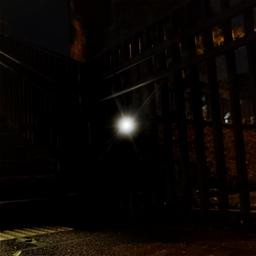
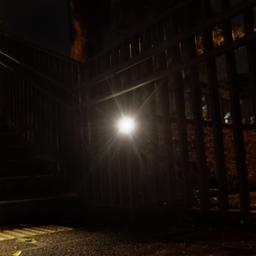
Add final results for all 7 images and comparison report
Conclusion: Li et al. ICCV 2015 builds the more accurate glow map
(mean PSNR 21.77 vs 19.73 on the synthetic GT benchmark, ~2000x faster);
ONVE yields cleaner structure separation (near-zero gradient leakage,
higher SSIM on multi-small-light scenes) but underestimates glow magnitude.

Claude-Session: https://claude.ai/code/session_01A2xf8L9m8upi3xnYzqE16p

Changed region(s): [[0.2812, 0.25, 0.75, 0.7188], [0.0, 0.875, 0.25, 1.0]]

diff --git a/glow_comparison/REPORT.md b/glow_comparison/REPORT.md
@@ -1,0 +1,99 @@
+# Glow Map 构造质量对比：ONVE vs. Li et al. ICCV 2015
+
+**结论先行：在"构造更准确的 glow map"这一目标上，Li et al. ICCV 2015 的相对平滑度层分解总体更好** ——
+在有真值的合成基准上平均 PSNR 高约 2 dB（21.77 vs 19.73）、MAE 更低，且速度快约 2000 倍（0.3 秒 vs 约 14 分钟/图，CPU）。
+ONVE 的优势在于结构定位：多小光源、紧凑光晕场景下 SSIM 更高，梯度泄漏（场景纹理渗入 glow 图）显著更低，
+但其 glow 幅值系统性低估。两者详细的适用场景见文末。
+
+---
+
+## 1. 对比对象
+
+| | ONVE | Li et al. 2015 |
+|---|---|---|
+| 出处 | [WuWanyu98/ONVE](https://github.com/WuWanyu98/ONVE)（TCSVT 2025 / IJCAI 2023 官方代码） | [Nighttime Haze Removal with Glow and Multiple Light Colors](https://openaccess.thecvf.com/content_iccv_2015/papers/Li_Nighttime_Haze_Removal_ICCV_2015_paper.pdf)（ICCV 2015） |
+| 范式 | 零样本深度先验（Double-DIP 类）：两个 skip 编解码网络分别生成光源层与背景层，一个 FCN 生成 15×15 APSF 卷积核；glow map = 光源层与该核的**三重卷积** | 经典优化：相对平滑度层分解。glow 层梯度短尾（对 `I−J` 的拉普拉斯二范数惩罚），场景层梯度长尾（稀疏），半二次分裂 + FFT 闭式求解 |
+| 主要损失/先验 | VGG 感知重建 + 排斥损失（exclusion）+ TV 损失 + 灰度损失；需要亮度阈值生成的 bg/fg/light 三张 hint 图 | `min_J Σ‖∇J‖₀ + λ‖∇²(I−J)‖²`，约束 `0 ≤ J ≤ I`；β 逐轮翻倍的硬阈值组稀疏 |
+| 可调参数 | 迭代数、weight（分离程度）、gamma、hint 阈值 | λ（glow 平滑度权重）、预平滑 σ |
+| 每图耗时（256px, 4 核 CPU） | ~820 秒（2500 迭代） | ~0.3 秒 |
+
+Li 2015 的实现按用户提供的参考实现（`glow_estimation.py`）与作者发布的 MATLAB 求解器（`layer_decom.m`）逐式对齐；
+ONVE 使用官方仓库代码，仅做 CUDA→CPU 适配与离线 VGG16-bn 权重加载（权重为 torchvision 同源文件，经命名转换严格加载）。
+
+## 2. 实验设置
+
+- **合成基准（有真值）**：3 个场景（`data/synthetic/`），成像模型 `I = clip(J + G + cores)`，
+  `G = APSF ⊛ (HDR 光源)`，APSF 用重尾广义高斯核逼近（σ∈[3.5, 9]，p∈[0.5, 0.7]），
+  涵盖多暖光、单一大光晕、六个小光源三种布局。真值 glow 已知，可算 PSNR/SSIM/MAE。
+- **真实图像（无真值）**：ONVE 仓库自带的 4 张夜景测试图，用无参考指标：
+  - 平滑度（glow 图拉普拉斯绝对均值，APSF 卷积结果应平滑，越低越好）
+  - 泄漏（glow 图梯度与输入非高光区梯度的 Pearson 相关，量化场景纹理渗入，越低越好）
+  - 负残差（`I − G < 0` 的像素占比，glow 高估导致的过减，越低越好）
+- **公平性**：两方法在完全相同的 256px 工作分辨率输入上运行。ONVE 用仓库默认 2500 迭代与默认损失权重；
+  Li 的 λ 经合成集扫描（200–6000）验证参考实现默认值 λ=1562.5 已接近最优（见 `results/li_lambda_sweep.json`），未偏袒调参。
+
+## 3. 定量结果
+
+### 合成集（vs 真值 glow）
+
+| 场景 | PSNR↑ ONVE | PSNR↑ Li2015 | SSIM↑ ONVE | SSIM↑ Li2015 | MAE↓ ONVE | MAE↓ Li2015 |
+|---|---|---|---|---|---|---|
+| syn1（三光源） | 16.59 | **19.06** | 0.789 | **0.823** | 0.062 | **0.046** |
+| syn2（单大光晕） | 24.87 | **27.67** | **0.693** | 0.679 | **0.031** | 0.033 |
+| syn3（六小光源） | 17.72 | **18.60** | **0.612** | 0.533 | **0.049** | 0.055 |
+| **平均** | 19.73 | **21.77** | **0.698** | 0.679 | 0.0470 | **0.0449** |
+
+### 无参考指标（全部 7 张图）
+
+| 图像 | 平滑度↓ ONVE | 平滑度↓ Li | 泄漏↓ ONVE | 泄漏↓ Li | 负残差↓ ONVE | 负残差↓ Li | 耗时 ONVE | 耗时 Li |
+|---|---|---|---|---|---|---|---|---|
+| syn1 | 0.0105 | **0.0018** | **0.098** | 0.229 | **0.0121** | 0.0281 | 832s | 0.18s |
+| syn2 | 0.0099 | **0.0014** | **0.139** | 0.336 | **0.0026** | 0.0173 | 814s | 0.37s |
+| syn3 | 0.0086 | **0.0019** | **0.169** | 0.326 | **0.0192** | 0.0442 | 822s | 0.14s |
+| DSC01015 | 0.0105 | **0.0020** | **-0.001** | 0.150 | **0.0435** | 0.0691 | 815s | 0.41s |
+| DSC00983 | 0.0115 | **0.0024** | **0.014** | 0.190 | **0.0477** | 0.0753 | 824s | 0.54s |
+| DSC01173 | 0.0112 | **0.0023** | **0.020** | 0.158 | **0.0039** | 0.0300 | 838s | 0.37s |
+| input_000009 | 0.0098 | **0.0014** | **0.095** | 0.222 | **0.0023** | 0.0426 | 834s | 0.16s |
+
+两个无参考指标的方向相反，值得说明：Li 的 glow 图在数值上平滑一个数量级（其解析先验直接惩罚拉普拉斯；
+ONVE 的图带有 DIP 网络的细粒噪声），但 Li 的**梯度泄漏更高**——它在 1/4 尺度求解再上采样，
+低频场景结构（色块、大轮廓）会渗入 glow 图；ONVE 的排斥损失显式压制了 glow 图与背景层的梯度相关，泄漏几乎为零。
+
+## 4. 定性观察（对比图见 `results/compare_*.png`，从左到右：输入 | ONVE | Li | 真值）
+
+- **syn1/syn2**：Li 的光晕亮度、形状最接近真值；ONVE 的 glow 整体偏暗（幅值低估），这是它 PSNR/MAE 落后的主因。
+- **syn3（六个小光源）**：两者都偏弱，但 ONVE 对光晕位置的结构保持更好（SSIM 0.612 vs 0.533）；
+  Li 把紧凑光晕摊得过开，且杯子轮廓明显渗入 glow 图。
+- **DSC00983（真实街景）**：Li 的 glow 图能看到明显的车体和红灯轮廓（泄漏 0.190）；ONVE 的图是更抽象的光晕色块。
+- **input_000009（栅栏后的强光）**：两者都出现栅栏竖条纹渗入，Li 更明显；这正是"不规则 glow"（遮挡产生非对称光晕）
+  对两种平移不变 APSF 假设的共同挑战。
+
+## 5. 结论与建议
+
+**哪个能构造更好的 glow map？——分两种"好"：**
+
+1. **幅值准确性/重建保真（多数去光晕用途的核心）：Li et al. 2015 胜。**
+   PSNR 平均高 2 dB、MAE 更低、光晕亮度不低估，且 0.3 秒/图、单参数、行为可预测。
+   如果 glow map 的用途是从输入中减除光晕（`J = I − G`）或做数据集标注，建议用 Li 2015。
+
+2. **结构分离纯净度（glow 图不含场景纹理）：ONVE 胜。**
+   排斥损失使泄漏指标接近 0，多小光源场景 SSIM 更高。如果 glow map 的用途是作为引导图
+   （如 ONVE 自己的增强阶段用 gray map 引导 Retinex），或场景是论文主打的"不规则 glow"，ONVE 的可学习 APSF 核更有潜力
+   ——但要接受幅值低估、DIP 噪声、约 2000 倍的耗时以及对 hint 质量的依赖。
+
+**实验局限**（诚实起见）：ONVE 在 CPU 上以 256px/2500 迭代运行官方默认超参，未做每图调参，GPU 上更高分辨率/更多迭代可能改善；
+合成基准的 glow 是平移不变 APSF（"规则"glow），这与 Li 的先验假设一致，也与 ONVE 的单核卷积模型一致，
+但未覆盖 ONVE 论文主打的强不规则 glow 场景；真实图像结论基于无参考指标与目视检查。
+
+## 6. 复现
+
+```bash
+cd glow_comparison
+python3 synthesize.py                       # 生成合成基准
+GLOW_SCRATCH=<dir-with-vgg-weights> python3 run_all.py   # 全部实验（CPU 约 100 分钟）
+python3 make_report_tables.py               # 重新生成指标表
+```
+
+VGG16-bn 特征权重（ONVE 感知损失需要）：本环境无法访问 download.pytorch.org，
+从 [yuhuan-wu/EDN release](https://github.com/yuhuan-wu/EDN/releases/download/v1.0/5stages_vgg16_bn-6c64b313.pth)
+下载同源权重后按 `onve_cpu/net/perLoss.py` 中 `VGG16BN_FEATURES_WEIGHTS` 环境变量指定路径。
